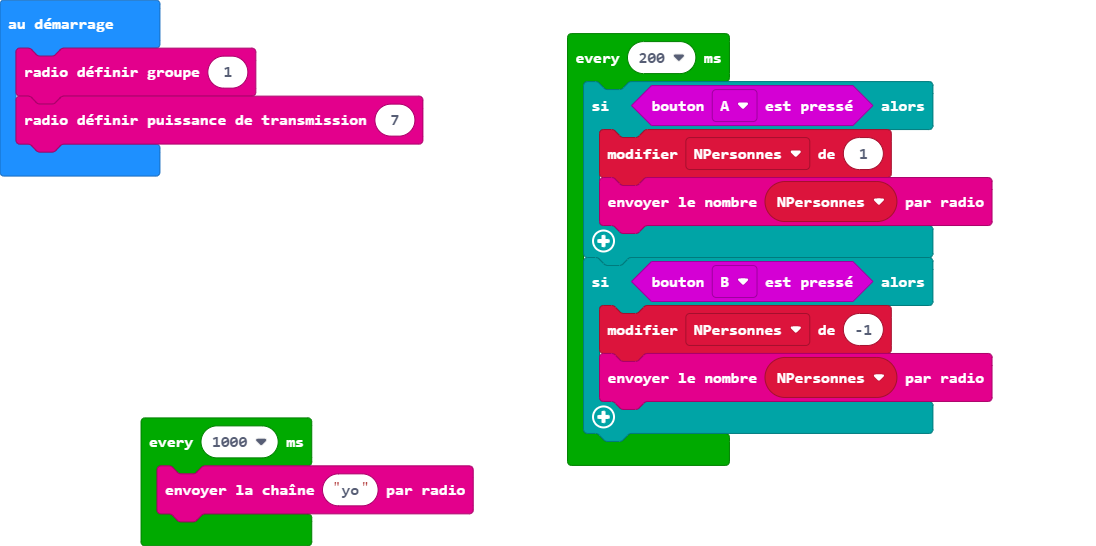
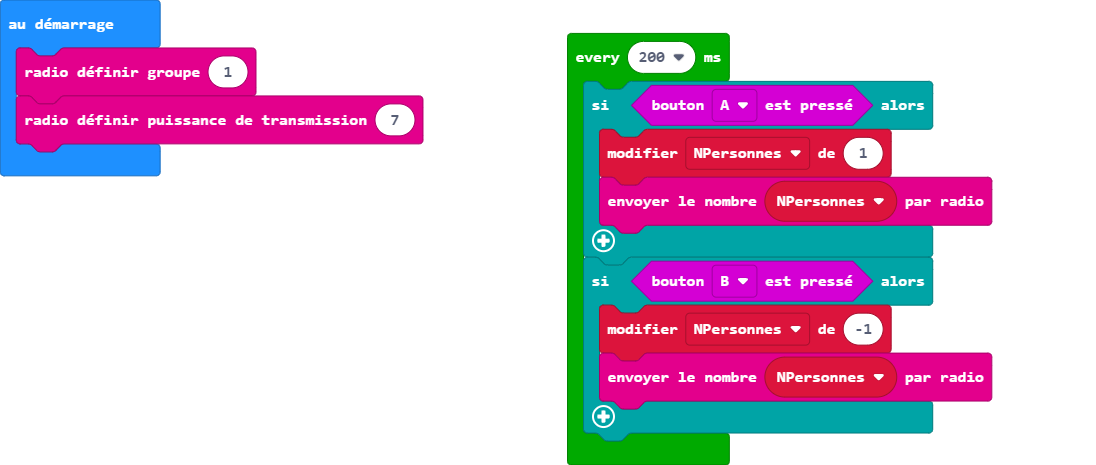
moins: verification

diff --git a/main.ts b/main.ts
@@ -1,9 +1,6 @@
 let NPersonnes = 0
 radio.setGroup(1)
 radio.setTransmitPower(7)
-loops.everyInterval(1000, function () {
-    radio.sendString("yo")
-})
 loops.everyInterval(200, function () {
     if (input.buttonIsPressed(Button.A)) {
         NPersonnes += 1
